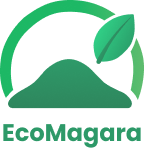
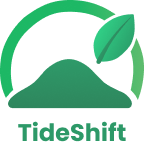
Fix profile picture bug

Changed region(s): [[0.0, 0.8, 1.0, 0.9867]]

diff --git a/lib/presentation/pages/main/profile/profile_page.dart b/lib/presentation/pages/main/profile/profile_page.dart
@@ -1,6 +1,4 @@
 import 'package:ecomagara/config/config.dart';
-import 'package:ecomagara/datasource/remote/profile_datasource.dart';
-import 'package:ecomagara/datasource/repositories/profile_impl.dart';
 import 'package:ecomagara/main.dart';
 import 'package:ecomagara/presentation/pages/auth/authController.dart';
 import 'package:ecomagara/presentation/widgets/defaultButton.dart';
@@ -54,6 +52,7 @@ class ProfilePage extends StatelessWidget {
             Stack(
               alignment: Alignment.bottomRight,
               children: [
+                // Avatar
                 Obx(() {
                   final userData = userController.userData.value;
                   final profilePic =
@@ -69,64 +68,73 @@ class ProfilePage extends StatelessWidget {
                     ),
                   );
                 }),
-                IconButton.filled(
-                  icon: Icon(Icons.edit),
-                  onPressed: () {
-                    showDialog(
-                      context: context,
-                      builder: (context) {
-                        return AlertDialog(
-                          content: SizedBox(
-                            height: 170,
-                            child: GridView.builder(
-                              gridDelegate:
-                                  const SliverGridDelegateWithFixedCrossAxisCount(
-                                    crossAxisCount: 3,
-                                    crossAxisSpacing: 10,
-                                    mainAxisSpacing: 10,
-                                  ),
-                              itemCount: 6,
-                              itemBuilder: (context, index) {
-                                return GestureDetector(
-                                  onTap: () async {
-                                    await controller.updateProfilePicture(
-                                      'prof${index + 1}.png',
-                                    );
-                                    Get.back();
-                                  },
-                                  child: Obx(() {
-                                    final currentPic =
-                                        userController
-                                            .userData
-                                            .value
-                                            ?.profilePicture ??
-                                        '';
-                                    final selected =
-                                        currentPic == 'prof${index + 1}.png';
 
-                                    return CircleAvatar(
-                                      radius: 50,
-                                      backgroundColor:
-                                          selected ? Colors.green : null,
-                                      backgroundImage: AssetImage(
-                                        'assets/images/profilePictures/prof${index + 1}.png',
-                                      ),
-                                    );
-                                  }),
-                                );
-                              },
+                // Fix: Use Align or Positioned
+                Positioned(
+                  bottom: 0,
+                  right: 0,
+                  child: IconButton.filled(
+                    icon: Icon(Icons.edit),
+                    onPressed: () {
+                      showDialog(
+                        context: context,
+                        builder: (context) {
+                          return AlertDialog(
+                            content: SizedBox(
+                              height: 300,
+                              width: double.maxFinite,
+                              child: GridView.builder(
+                                shrinkWrap: true,
+                                physics: NeverScrollableScrollPhysics(),
+                                gridDelegate:
+                                    SliverGridDelegateWithFixedCrossAxisCount(
+                                      crossAxisCount: 3,
+                                      crossAxisSpacing: 10,
+                                      mainAxisSpacing: 10,
+                                    ),
+                                itemCount: 6,
+                                itemBuilder: (context, index) {
+                                  return GestureDetector(
+                                    onTap: () async {
+                                      await controller.updateProfilePicture(
+                                        'prof${index + 1}.png',
+                                      );
+                                      Get.back();
+                                    },
+                                    child: Obx(() {
+                                      final currentPic =
+                                          userController
+                                              .userData
+                                              .value
+                                              ?.profilePicture ??
+                                          '';
+                                      final selected =
+                                          currentPic == 'prof${index + 1}.png';
+
+                                      return CircleAvatar(
+                                        radius: 50,
+                                        backgroundColor:
+                                            selected ? Colors.green : null,
+                                        backgroundImage: AssetImage(
+                                          'assets/images/profilePictures/prof${index + 1}.png',
+                                        ),
+                                      );
+                                    }),
+                                  );
+                                },
+                              ),
                             ),
-                          ),
-                        );
-                      },
-                    );
-                  },
-                  style: ButtonStyle(
-                    backgroundColor: MaterialStateProperty.all<Color>(
-                      AppColors.button2,
-                    ),
-                    foregroundColor: MaterialStateProperty.all<Color>(
-                      AppColors.surface,
+                          );
+                        },
+                      );
+                    },
+                    style: ButtonStyle(
+                      backgroundColor: MaterialStateProperty.all<Color>(
+                        AppColors.button2,
+                      ),
+                      foregroundColor: MaterialStateProperty.all<Color>(
+                        AppColors.surface,
+                      ),
                     ),
                   ),
                 ),

diff --git a/lib/presentation/pages/main/mainDiy/offline_diy.dart b/lib/presentation/pages/main/mainDiy/offline_diy.dart
@@ -62,8 +62,8 @@ class OfflineDiyDetailPage extends StatelessWidget {
                               ),
                             ),
                             const SizedBox(height: 8),
-                            const Text(
-                              'Lorem ipsum dolor sit amet, consectetur adipiscing elit. Etiam eu turpis molestie, dictum est a, mattis tellus.',
+                            Text(
+                              diy.description,
                               style: TextStyle(
                                 fontSize: 14,
                                 color: AppColors.surface,

diff --git a/lib/presentation/pages/main/mainDiy/offlineDiy_page.dart b/lib/presentation/pages/main/mainDiy/offlineDiy_page.dart
@@ -74,9 +74,7 @@ class OfflineDiyPage extends StatelessWidget {
                           item.image, 
                       title: item.title,
                       description:
-                          item
-                              .steps
-                              .first, 
+                          item.description,
                       buttonText: 'Craft Item',
                       onPressed: () {
                         Get.to(OfflineDiyDetailPage(diy: item));

diff --git a/lib/config/config.dart b/lib/config/config.dart
@@ -1,7 +1,7 @@
 class AppConfig {
-  static const String appName = 'EcoMagara';
+  static const String appName = 'TideShift';
   static const String version = '1.0.0';
-  static const String localUrl = 'http://192.168.100.206:5000'; // Local wifi
+  static const String localUrl = 'http://192.168.100.206:5000'; // IMPORTANT: LOCAL WIFI IP
   static const String slogan =
       'Build Climate Change Friendly Habits, One Day at a Time';
 }
